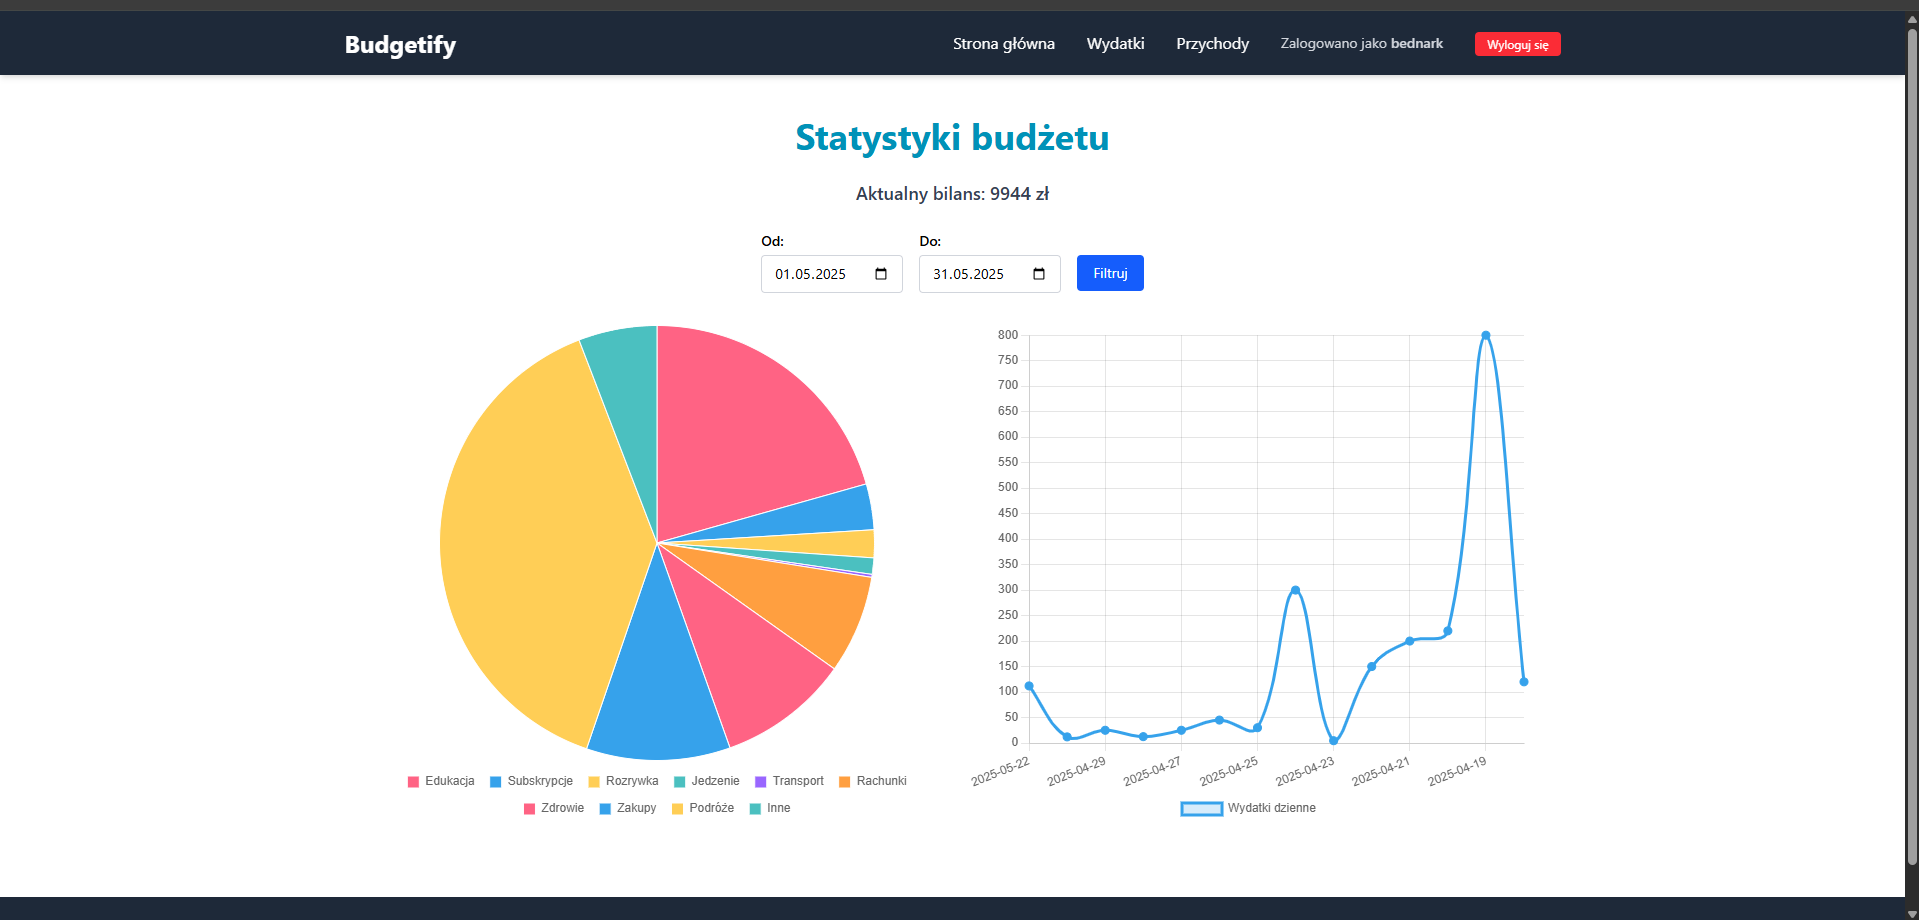
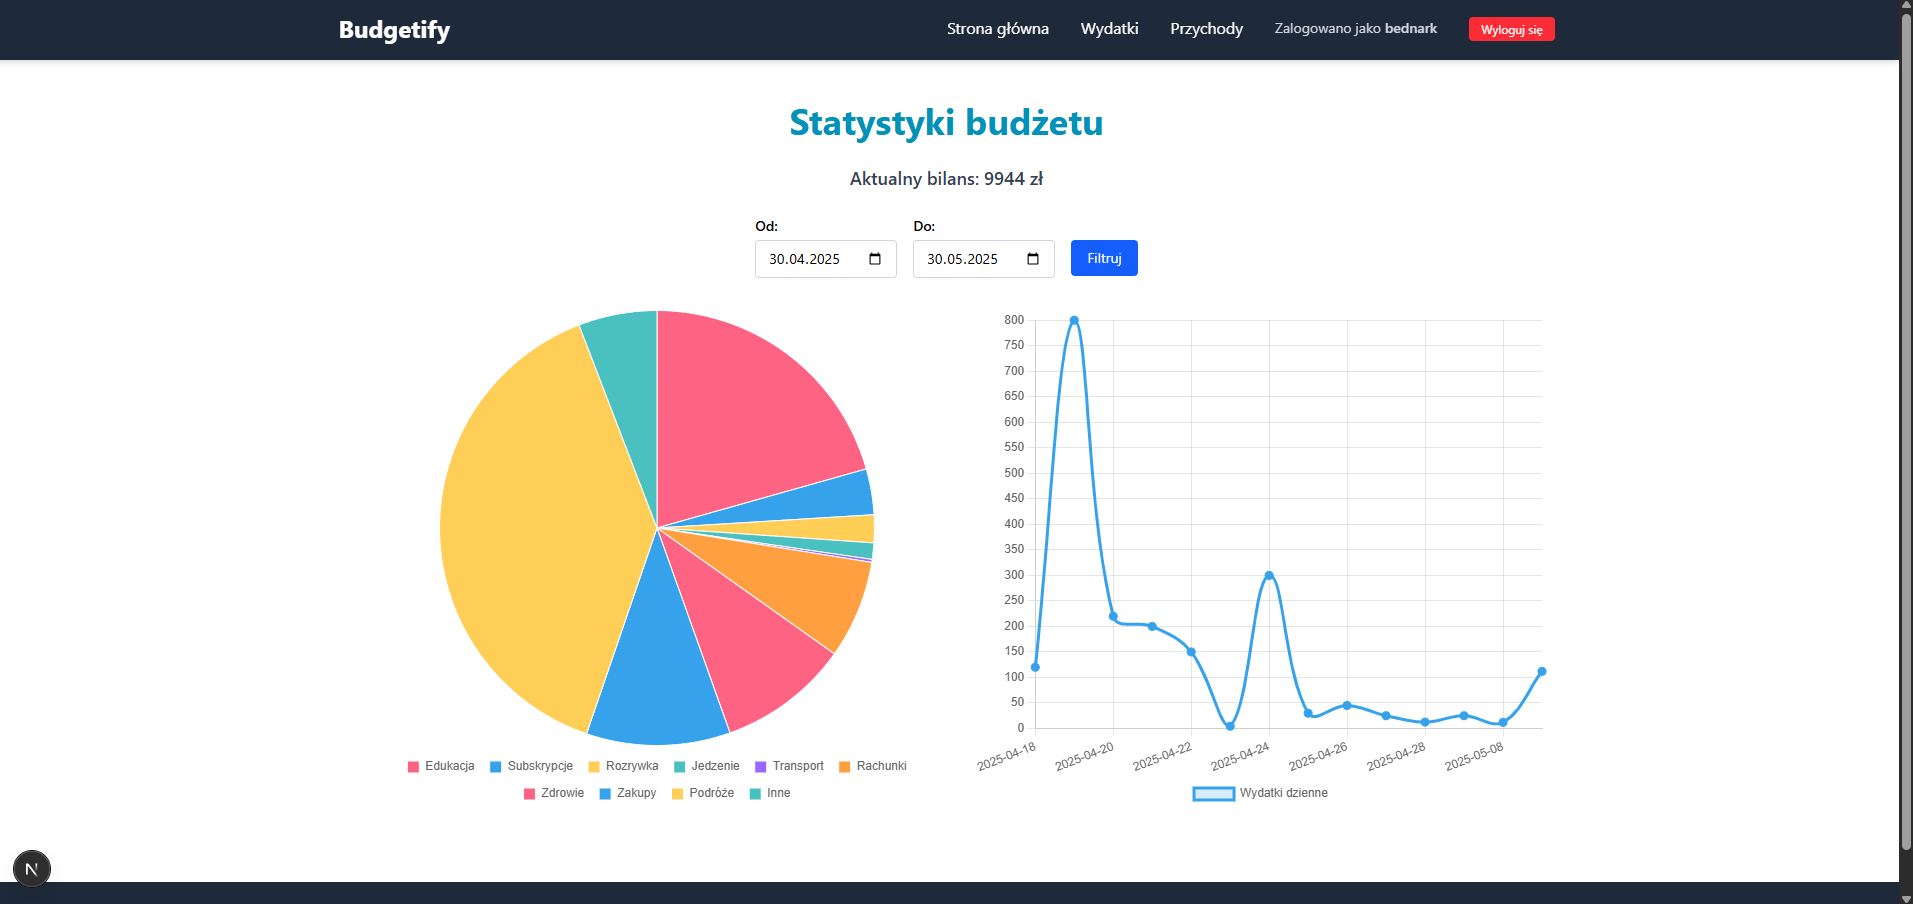
Replaced application screenshot Added sort to expenses by day chart Added documentation file

diff --git a/src/components/dashboard/Dashboard.tsx b/src/components/dashboard/Dashboard.tsx
@@ -55,7 +55,8 @@ const Dashboard = ({ expensesList, incomesList, firstDay, lastDay }: IDashboardP
     }
 
     return acc;
-  }, [] as IExpensesGroupedByDay[]);
+  }, [] as IExpensesGroupedByDay[])
+  .sort((a, b) => new Date(a.date).getTime() - new Date(b.date).getTime());
 
   const totalExpenses = expensesGroupedByCategory.reduce((sum, item) => sum + item.total, 0);
   const totalIncomes = incomesList.reduce((sum, item) => sum + (typeof item.price === "number" ? item.price : parseFloat(item.price)), 0);

diff --git a/docs/DOCUMENTATION.md b/docs/DOCUMENTATION.md
@@ -1,0 +1,267 @@
+### Wstęp
+
+`budgetify` to prosta aplikacja webowa stworzona z myślą o wygodnym zarządzaniu budżetem domowym. Głównym celem aplikacji jest ułatwienie monitorowania wydatków i dochodów oraz ich wizualizacja.
+Aplikacja umożliwia użytkownikowi dodawanie transakcji finansowych – zarówno przychodów, jak i wydatków – z możliwością przypisywania ich do konkretnych kategorii. Dzięki temu użytkownik może w prosty sposób analizować, na co przeznaczane są środki i jakie są główne źródła dochodu. Przejrzysty interfejs oraz graficzna prezentacja danych, w postaci salda i listy transakcji, pozwalają na szybkie zorientowanie się w aktualnym stanie finansów.
+
+### Opis funkcjonalności
+
+Użytkownik ma do dyspozycji 3 widoki:
+- **Dashboard** - główny panel, któy prezentuje wizualizacje finansów w formie wykresów. Użytkownik ma możliwość wyboru zakresu dat, dla którego będą prezentowane dane.
+- **Wydatki** - sekcja umożliwiająca dodawanie i przeglądanie wydatków.
+- **Przychody** - strona, na której użytkownik może dodawać oraz przeglądać swoje przychody. Dodatkowo użytkownik może filtrować przychody według przedziału dat.
+
+### Opis techniczny
+
+Użyte technologie:
+- **Next.js** - framework oparty na bibliotece React, umożliwiający tworzenie aplikacji internetorwy po stronie serwera oraz statycznego generowania stron.
+- **MongoDB** - nierelacyjna baza danych wykorzystywana w aplikacji do trwałego przechowywania danych.
+- **Chart.js** - biblioteka do tworzenia interaktywnych wykresów.
+- **NextAuth.js** - biblioteka do zarządzania autoryzacją i uwierzytelniania.
+- **web-push** - biblioteka służąca do wysyłania powiadomień Web Push do przeglądarek internetowych zgodnie ze standardem W3C.
+- **Git** - system kontroli wersji, który umożliwia śledzenie zmian w kodzie źródłowym.
+
+### Autoryzacja i zarządzenie sesją
+
+Aplikacja została zaprojektowana z myślą o współdzieleniu jej pomiędzy wielu użytkowników, dlatego wszystkie dane dotyczące przychodów i wydatków są przechowywane w zewnętrznej bazie danych. Ponieważ budgetify funkcjonuje w kontekście konkretnego budżetu, dostęp do każdej instancji aplikacji musi być odpowiednio zabezpieczony. W tym celu wdrożono mechanizm uwierzytelniania oparty na bibliotece NextAuth.js, wykorzystujący protokół OAuth oraz integrację z zewnętrznym dostawcą tożsamości – platformą GitHub.
+
+Konta, którym bedzie zezwolone logowanie określa się za pomocą zmiennej środowiskowej `ALLOWED_USERS`, w której podajemy po przecinku nazwy użytkowników kont GitHub.
+
+**Konfiguracja aplikacji OAuth w GitHub**
+Aby umożliwić logowanie przez GitHub, należy utworzyć aplikację OAuth w ustawieniach konta:
+
+1. Zaloguj się na GitHub i przejdź do ustawień: https://github.com/settings/developers
+2. Kliknij "**New OAuth App**".
+3. Wypełnij formularz:
+  - Application name – np. Budgetify
+  - Homepage URL – np. http://localhost:3000
+  - Authorization callback URL – np. http://localhost:3000/api/auth/callback/github
+4. Zatwierdź formularz – po utworzeniu aplikacji otrzymasz `Client ID` oraz `Client Secret`, które należy wpisać do zmiennych środowiskowych `GITHUB_CLIENT_ID` oraz `GITHUB_CLIENT_SECRET`
+
+![Github 1](https://raw.githubusercontent.com/bednark/budgetify/master/docs/screenshots/github-1.png)
+
+![Github 2](https://raw.githubusercontent.com/bednark/budgetify/master/docs/screenshots/github-2.png)
+
+![Logowanie 1](https://raw.githubusercontent.com/bednark/budgetify/master/docs/screenshots/logowanie-1.png)
+
+![Logowanie 2](https://raw.githubusercontent.com/bednark/budgetify/master/docs/screenshots/logowanie-2.png)
+
+![Logowanie 3](https://raw.githubusercontent.com/bednark/budgetify/master/docs/screenshots/logowanie-3.png)
+
+![Logowanie 4](https://raw.githubusercontent.com/bednark/budgetify/master/docs/screenshots/logowanie-4.png)
+
+### Obsługa offline i PWA
+
+Aby zwiększyć dostęp i wygodę do aplikacji, została ona dostosowana do działania jako **Progresive Web App**. Dzięki temu użytkownik uzyskuje możliwość korzystania z aplikacji w trybie offline oraz instalacji jej na swoim urządzeniu mobilnym.
+Główne cele implementacji PWA:
+- **Cache po stronie klienta** - aplikacja korzysta z [Service Worker'a](https://github.com/bednark/budgetify/blob/master/public/sw.js), czyli specjalnego skryptu, który działa w tle przeglądarki oraz przechwutuje żądania sieciowe i umożliwia buforowanie zasobów takich jak plik CSS, HTML oraz JavaScript. Dzięki temu aplikacja jest bardziej wydajna.
+- **Dostęp offline** - dzięki skonfigurowanej strategii cache cache aplikacja umożliwia przeglądać dane gdy urządzenie jest poza siecią. Na ten moment dane są tylko do odczytu.
+- **Instalacja na urządzeniu mobilnym oraz pulpicie** - aplikacja zawiera plik [manifest](https://github.com/bednark/budgetify/blob/master/src/app/manifest.ts), czyli plik konfiguracyjny PWA, który zawiera podstawowe informacje o aplikacji (takie jak nazwa, ikony, kolor tła oraz tryb uruchomienia). Dzięki niemu jest możliwa instalacja aplikacji na pulpicie urządzenia co ułatwia dostęp do aplikacji.
+
+![PWA 1](https://raw.githubusercontent.com/bednark/budgetify/master/docs/screenshots/pwa-1.png)
+
+![PWA 2](https://raw.githubusercontent.com/bednark/budgetify/master/docs/screenshots/pwa-2.png)
+
+![PWA 3](https://raw.githubusercontent.com/bednark/budgetify/master/docs/screenshots/pwa-3.png)
+
+### Powiadomienia
+
+Jednym z dodatkowych możliwości aplikacji w wersji PWA jest obsługa powiadomień systemowych. Dzięki temu użytkownik ma możliwość otrzymywania komunikatów na ekranie urządzenia nawet gdy aplikacja działa w tle.
+W `budgetify` został zaimplementowany specjalny endpoint, który odpowiada za zebranie wszystkich wydatków z datą jutrzejszą oraz wyświetlenie powiadomienia przypominającym o nadchodzących wydatkach. Endpoint jest dostępny pod ścieżką `/api/send-push` oraz został zabezpieczony kluczem autoryzacji, który należy wygenerować i podać przy konfiguracji zmiennych środowiskowych. Zmienna odpowiadająca za klucz to `API_KEY`. Aby przeprowadzić autoryzację żądania HTTP należy dodać nagłówek `x-api-key` z wartością klucza.
+Do implementacji obsługi powiadomień została wykorzystana biblioteka `web-push`. Komunikacja pomiędzy backendem, a przeglądarką jest realizowana za pomocą protokołu VAPID, który umożliwia identyfikację serwera z którego wysyłane są powiadomienia. Polega to na dołączeniu podpisu cyfrowego do wiadomości push, co pozwala przeglądarce zweryfikować, że powiadomienie pochodzi z zaufanego źródłą.
+Aby aplikacja mogła poprawnie wysyłać powiadomienia należy wygenerować parę kluczy VAPID do tego trzeba wykonać następujące kroki:
+
+Instalacja web-push
+```bash
+pnpm add -g web-push
+```
+
+Generowanie kluczy VAPID
+```bash
+web-push generate-vapid-keys
+```
+
+Oczekiwany rezultat
+```
+===================================
+Public Key:
+BEXAMPLEKEYsdfsdljfljsdlfjsldfj
+
+Private Key:
+LKJLKJfjsdlfjsdlfjlsjdfljlsdf
+
+===================================
+```
+
+Wygenerowane klucze należy dodać do zmiennych środkowiskowych `NEXT_PUBLIC_VAPID_PUBLIC_KEY` oraz `VAPID_PRIVATE_KEY`.
+
+![Powiadomienie 1](https://raw.githubusercontent.com/bednark/budgetify/master/docs/screenshots/powiadomienie-1.png)
+
+![Powiadomienie 2](https://raw.githubusercontent.com/bednark/budgetify/master/docs/screenshots/powiadomienie-2.png)
+
+![Powiadomienie 3](https://raw.githubusercontent.com/bednark/budgetify/master/docs/screenshots/powiadomienie-3.png)
+
+### MongoDB i model danych
+
+Do trwałego przechowywania danych w aplikacji użyto bazę NoSQL MongoDB, która przechowuje dane w formacie dokumentów JSON. Do hostowania bazy danych wykorzystano MongoDB Atlas, czyli chmurową platformę zarządzaną przez twórców MongoDB.
+W aplikacji struktura danych wygląda następująco:
+- `categories` - kolekcja, w której przechowywane są kategorie, które użytkownik może wybrać przy dodawaniu nowego wydatku.
+
+```
+{
+  _id: ObjectId,
+  name: string
+}
+```
+- expenses - kolekcja, w której przechowywane są wydatki.
+
+```
+{
+  _id: ObjectId,
+  name: string,
+  price: number,
+  category: string,
+  date: Date,
+  notified: boolean
+}
+```
+- incomes - kolekcja przechowująca przychody.
+
+```
+{
+  _id: ObjectId,
+  name: string,
+  price: number,
+  date: Date
+}
+```
+
+- push_subscriptions - kolekcja przechowująca subkskrybentów, do których będą docierały powiadomienia.
+
+```
+{
+  _id: ObjectId,
+  endpoint: string,
+  keys: {
+    p256dh: string,
+    auth: string
+  }
+}
+```
+
+Aby uruchomić własną instancję bazy danych w MongoDB Atlas, należy wykonać następujące kroki:
+
+1. Rejestracja
+  - Przejdź na stronę: https://www.mongodb.com/cloud/atlas
+  - Załóż darmowe konto (możesz skorzystać z logowania przez Google lub GitHub)
+
+2. Utworzenie klastra
+  - Po zalogowaniu utwórz nowy projekt, a następnie kliknij „Build a Database”
+  - Wybierz darmowy klaster typu M0 Free Tier, wybierz region i nazwij klaster
+
+3. Dodanie użytkownika bazy
+  - Przejdź do zakładki Database Access i utwórz użytkownika z nazwą i hasłem
+  - Można przyznać mu rolę readWrite dla konkretnej bazy
+
+4. Zezwolenie na połączenie
+  - W zakładce Network Access dodaj do whitelisty adres IP, z którego będzie wykonywane połączenie. W przypadku hostingu w Vercel w jego darmowej wersji aplikacja nie będzie miała stałego adresu ip więc należy dopuścić wszystkie adresy do bazy wpisując `0.0.0.0/0`
+
+5. Uzyskanie connection string
+  - Wejdź w zakładkę Database → Connect i wybierz „Connect your application”
+  - Skopiuj wygenerowany URI
+
+Uzyskany connection string należy uzupełnić w zmiennej środowiskowej pod nazwą `MONGODB_CONNECTION_STRING`.
+
+### Wdrożenie środowiska deweloperskiego
+
+Pobieramy repozytorium
+
+```bash
+git clone https://github.com/bednark/budgetify
+```
+
+Przechodzimy do repozytorium oraz instalujemy zależności
+
+```bash
+cd budgetify/
+pnpm i
+```
+
+Tworzymy plik .env i uzupełniamy zmienne środowiskowe
+
+```bash
+cat << EOF >> .env
+MONGODB_CONNECTION_STRING=     # Adres (URI) połączenia do bazy MongoDB
+GITHUB_CLIENT_ID=              # Identyfikator klienta OAuth
+GITHUB_CLIENT_SECRET=          # Sekret klienta OAuth z GitHub
+NEXTAUTH_SECRET=               # Sekret używany przez NextAuth
+NEXTAUTH_URL=                  # Publiczny adres URL aplikacji
+ALLOWED_USERS=                 # Lista loginów GitHub
+NEXT_PUBLIC_VAPID_PUBLIC_KEY=  # Publiczny klucz VAPID
+VAPID_PRIVATE_KEY=             # Prywatny klucz VAPID
+API_KEY=                       # Klucz autoryzacyjny do /api/send-push
+EOF
+```
+
+Uruchomienie aplikacji
+
+```bash
+pnpm dev
+```
+
+### Wdrożenie środowiska produkcyjnego
+
+Aplikacja budgetify została wdrożona w środowisku produkcyjnym za pomocą platformy Vercel, która zapewnia automatyczne budowanie i hosting aplikacji Next.js. Vercel umożliwia integrację z GitHub, dzięki czemu każda zmiana w repozytorium może automatycznie wywołać proces deployowania.
+
+Kroki wdrożenia:
+
+1. Rejestracja w platformie Vercel
+  - Przejdź na https://vercel.com i załóż konto
+2. Import projektu z GitHub
+  - W panelu Vercel kliknij "**Add New Project**", a następnie wybierz repozytorium z aplikacją budgetify.
+3. Konfiguracja zmiennych środowiskowych
+  - W zakładce Settings - Environment Variables dodaj wszystkie wymagane zmienne środowiskowe
+4. Deploy
+  - Po zapisaniu konfiguracji Vercel automatycznie uruchomi pierwszy deploy.
+  - Kolejne zmiany wprowadzone w repozytorium w gałęzi `master` będą automatycznie publikowane.
+
+![Vercel 1](https://raw.githubusercontent.com/bednark/budgetify/master/docs/screenshots/vercel-1.png)
+
+![Vercel 2](https://raw.githubusercontent.com/bednark/budgetify/master/docs/screenshots/vercel-2.png)
+
+![Vercel 3](https://raw.githubusercontent.com/bednark/budgetify/master/docs/screenshots/vercel-3.png)
+
+![Vercel 4](https://raw.githubusercontent.com/bednark/budgetify/master/docs/screenshots/vercel-4.png)
+
+### Podsumowanie
+
+Aplikacja `budgetify` to nowoczesne narzędzie do zarządzania budżetem domowym, zaprojektowane z myślą o wygodzie, dostępności i prywatności użytkownika. Dzięki wykorzystaniu technologii takich jak Next.js, MongoDB Atlas, NextAuth.js i Vercel, udało się stworzyć lekką, ale funkcjonalną aplikację umożliwiającą śledzenie przychodów i wydatków, ich wizualizację oraz dostęp offline dzięki technologii PWA.
+
+Projekt stanowi solidną podstawę do dalszego rozwoju. Wśród potencjalnych kierunków rozwoju aplikacji można wyróżnić:
+
+- Współdzielone budżety – możliwość zapraszania innych użytkowników do wspólnego zarządzania tym samym budżetem.
+
+- Limity kategorii – definiowanie maksymalnych miesięcznych wydatków w wybranych kategoriach z opcją powiadomień o ich przekroczeniu.
+
+- Transakcje cykliczne – automatyczne dodawanie powtarzających się wydatków i przychodów (np. czynsz, pensja).
+
+- Import/eksport danych – umożliwienie eksportu danych do formatu CSV lub PDF oraz importu danych z innych źródeł.
+
+- Zaawansowane powiadomienia – przypomnienia o nadchodzących wydatkach, cyklicznych transakcjach czy przekroczeniu budżetu.
+
+- Dedykowana wersja mobilna / aplikacja natywna – przekształcenie PWA w pełnoprawną aplikację natywną przy użyciu np. Capacitor lub React Native.
+
+`budgetify` to aplikacja, która w obecnej formie dostarcza solidny zestaw funkcjonalności, a dzięki przemyślanej architekturze – pozostaje otwarta na dalszą rozbudowę w zależności od potrzeb użytkowników i kierunku rozwoju projektu.
+
+### Załączniki
+
+**Adres repozytorium**: https://github.com/bednark/budgetify
+
+**Adres aplikacji**: https://budgetify-eosin.vercel.app
+
+**Screeny z aplikacji**:
+
+![Aplikacja 1](https://raw.githubusercontent.com/bednark/budgetify/master/docs/screenshots/aplikacja-1.png)
+
+![Aplikacja 2](https://raw.githubusercontent.com/bednark/budgetify/master/docs/screenshots/aplikacja-2.png)
+
+![Aplikacja 3](https://raw.githubusercontent.com/bednark/budgetify/master/docs/screenshots/aplikacja-3.png)
